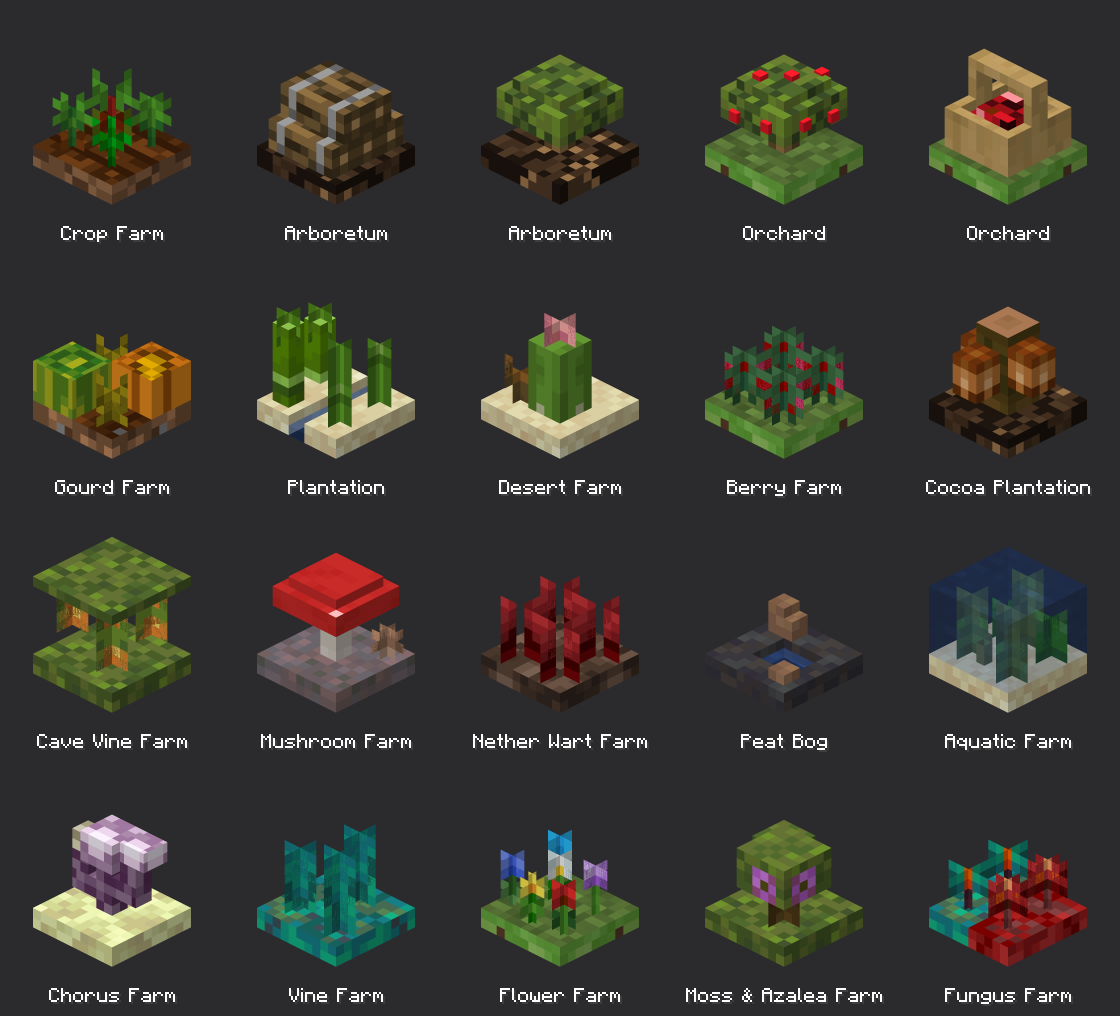
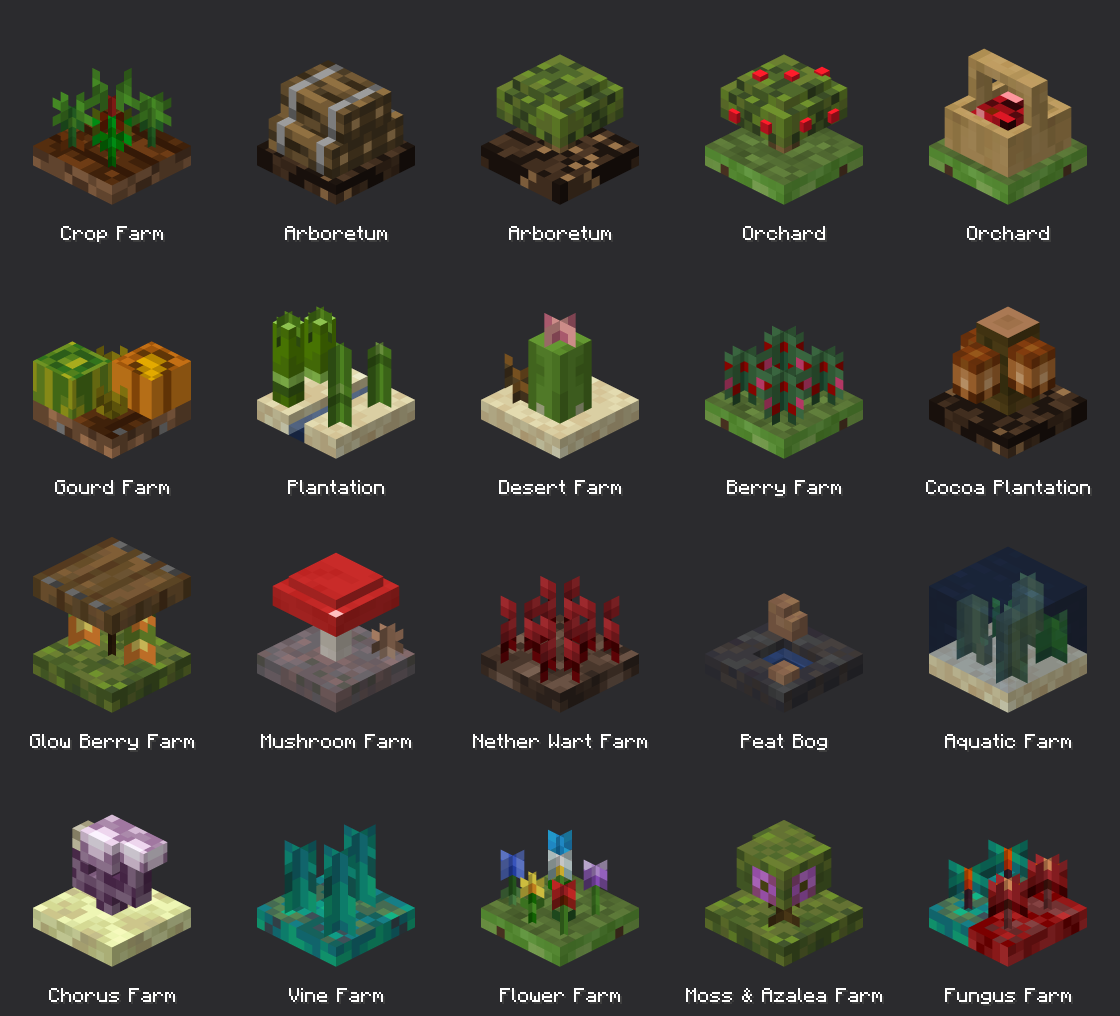
Rename the Cave Vine Farm to Glow Berry Farm under a spruce trapdoor

diff --git a/design/concepts/farm-bodies/concepts.py b/design/concepts/farm-bodies/concepts.py
@@ -374,12 +374,14 @@ def cocoa():
     return e
 
 
-def cave_vines():
+def glow_berries():
     moss = tex("moss_block")
-    e = [bed(moss, moss), box((3, 13, 3), (13, 14, 13), moss, off=(3, 0), top_off=(3, 3))]
-    for (x, z), h in zip(QUAD, (6, 4, 5, 7)):
-        e += cross(tex("cave_vines_plant_lit"), x, z, 13 - h + 2, 4, h - 2, u0=1, v0=4)
-        e += cross(tex("cave_vines_lit"), x, z, 13 - h, 4, 2, u0=2, v0=2)
+    e = [bed(moss, moss),
+         box((3, 12, 3), (13, 14, 13), tex("spruce_trapdoor"), off=(3, 0), top_off=(3, 3))]
+    e += cross(tex("spruce_log"), 8, 8, 6, 1, 6, u0=7, v0=0)  # centre post holding up the trapdoor
+    for (x, z), h in zip(((4.5, 8), (8, 4.5), (11.5, 8), (8, 11.5)), (5, 3, 4, 6)):
+        e += cross(tex("cave_vines_plant_lit"), x, z, 12 - h + 2, 4, h - 2, u0=1, v0=4)
+        e += cross(tex("cave_vines_lit"), x, z, 12 - h, 4, 2, u0=2, v0=2)
     return e
 
 
@@ -570,7 +572,7 @@ BODIES = [  # (label, model file, builder)
     ("Desert Farm", "desert_farm", desert),
     ("Berry Farm", "berry_farm", berry),
     ("Cocoa Plantation", "cocoa_plantation", cocoa),
-    ("Cave Vine Farm", "cave_vine_farm", cave_vines),
+    ("Glow Berry Farm", "glow_berry_farm", glow_berries),
     ("Mushroom Farm", "mushroom_farm", mushroom),
     ("Nether Wart Farm", "nether_wart_farm", nether_wart),
     ("Peat Bog", "peat_bog", peat_bog),
@@ -600,6 +602,8 @@ def render(elements, size, ss):
     opaque, clear = [], []
     for el in elements:
         for d, face in el["faces"].items():
+            if rb.rot_xyz(rb.DIR_NORMAL[d], rx, ry, rz)[2] <= 1e-6:
+                continue  # back face; the game culls these, and a plane's two faces would z-fight
             quad = rb.face_quad(el, d, face.get("uv") or rb.default_uv(el, d))
             n = face.get("rotation", 0) // 90
             corners, uvs = [c for c, _ in quad], [u for _, u in quad]
@@ -732,6 +736,7 @@ def main():
     rows = math.ceil(len(BODIES) / cols)
     W, H = cols * size, rows * (size + label_h)
     sheet = bytearray(bytes((43, 43, 46, 255)) * (W * H))
+    shutil.rmtree(os.path.join(HERE, "models"), ignore_errors=True)
     built = [(name, slug, build()) for name, slug, build in BODIES]
     bad = [msg for name, _, elements in built for msg in check_texels(name, elements)]
     if bad:

diff --git a/design/concepts/farm-bodies/README.md b/design/concepts/farm-bodies/README.md
@@ -42,7 +42,7 @@ The two labels that appear twice are alternatives to compare.
 | Desert Farm | two cactus columns, a cactus flower and a dead bush | planned |
 | Berry Farm | four sweet berry bushes on grass | planned |
 | Cocoa Plantation | pods on a bare jungle log, with no leaves | planned |
-| Cave Vine Farm | glow-berry vines hanging from a moss ceiling | planned; the ceiling hides the vines from above |
+| Glow Berry Farm | glow-berry vines hanging from a spruce trapdoor on a 1 px centre post, over a moss bed | planned; the trapdoor hides the vines from above |
 | Mushroom Farm | a giant red mushroom on mycelium | planned |
 | Nether Wart Farm | wart stalks with bulbs on soul sand | planned |
 | Peat Bog | a mud bed with a water inset and stacked peat | planned; no plant |
